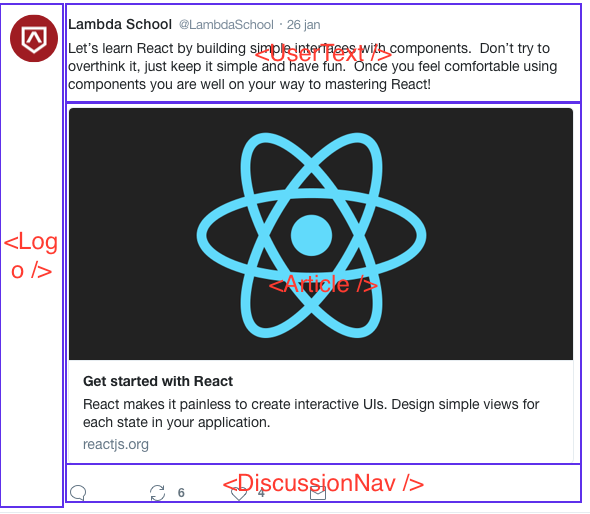
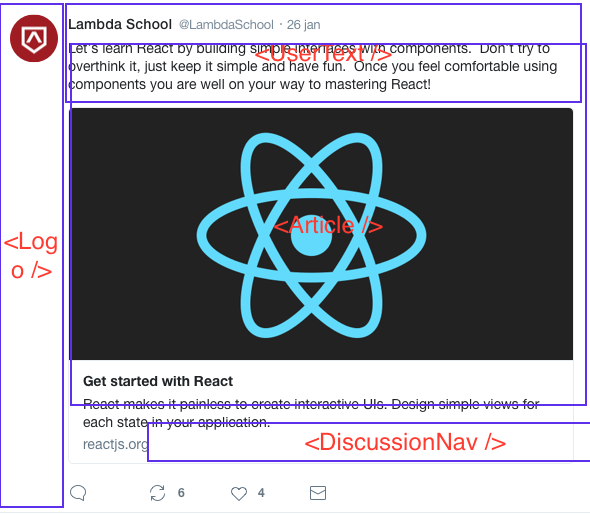
added numbers to footer and changed colors

Changed region(s): [[0.0915, 0.0623, 1.0, 0.9961], [0.4576, 0.5292, 0.6407, 0.5914], [0.4576, 0.4047, 0.6407, 0.4669]]

diff --git a/Project-I-Social-Card/social-card/src/components/FooterComponents/Footer.js b/Project-I-Social-Card/social-card/src/components/FooterComponents/Footer.js
@@ -5,8 +5,8 @@ const Footer = ()=>{
     return(
         <div className ="footer">
             <i className="far fa-comment icon-rotate-180"></i>
-            <i className="fas fa-retweet"></i>
-            <i className="far fa-heart"></i>
+            <i className="fas fa-retweet color">            6</i>
+            <i className="far fa-heart">                    4</i>
             <i className="far fa-envelope"></i>
         </div>
     )

diff --git a/Project-I-Social-Card/social-card/src/components/FooterComponents/Footer.css b/Project-I-Social-Card/social-card/src/components/FooterComponents/Footer.css
@@ -1,0 +1,9 @@
+.footer{
+    margin-left: 4.4em;
+    color: rgb(147, 160, 174);
+}
+.footer i{
+    margin: 20px 0;
+    margin-right: 4.4em;
+    
+}
